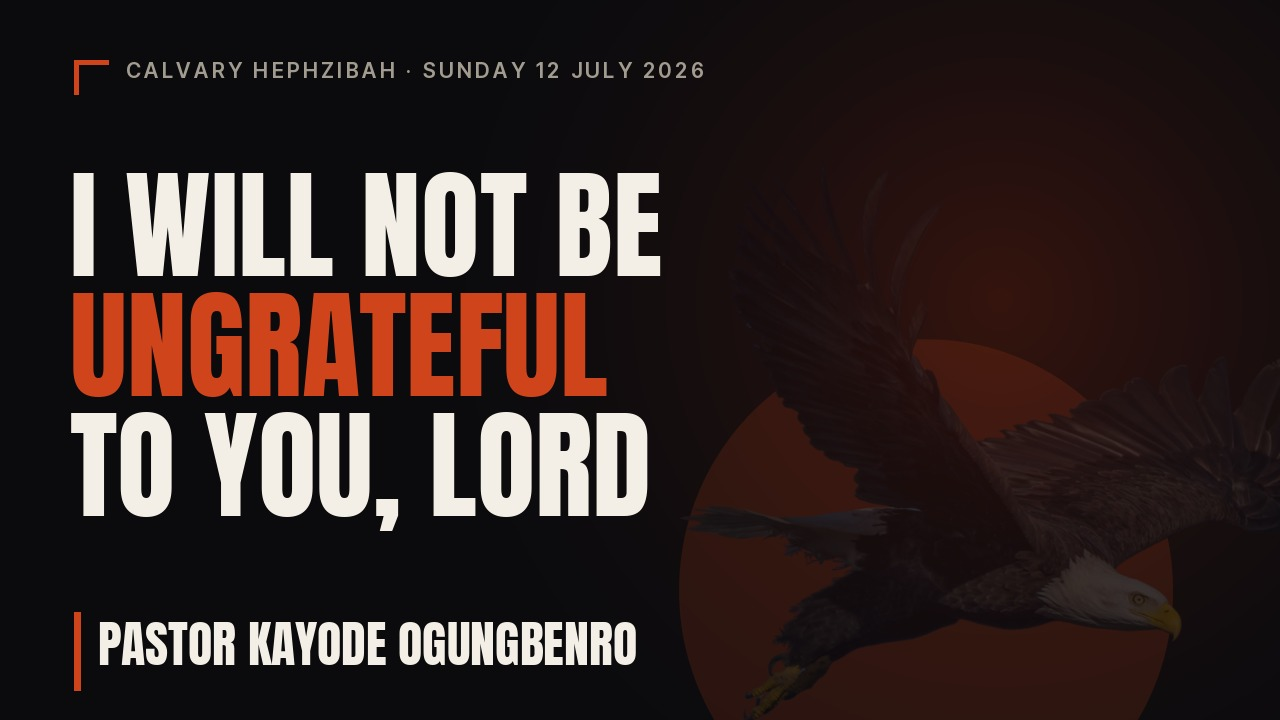
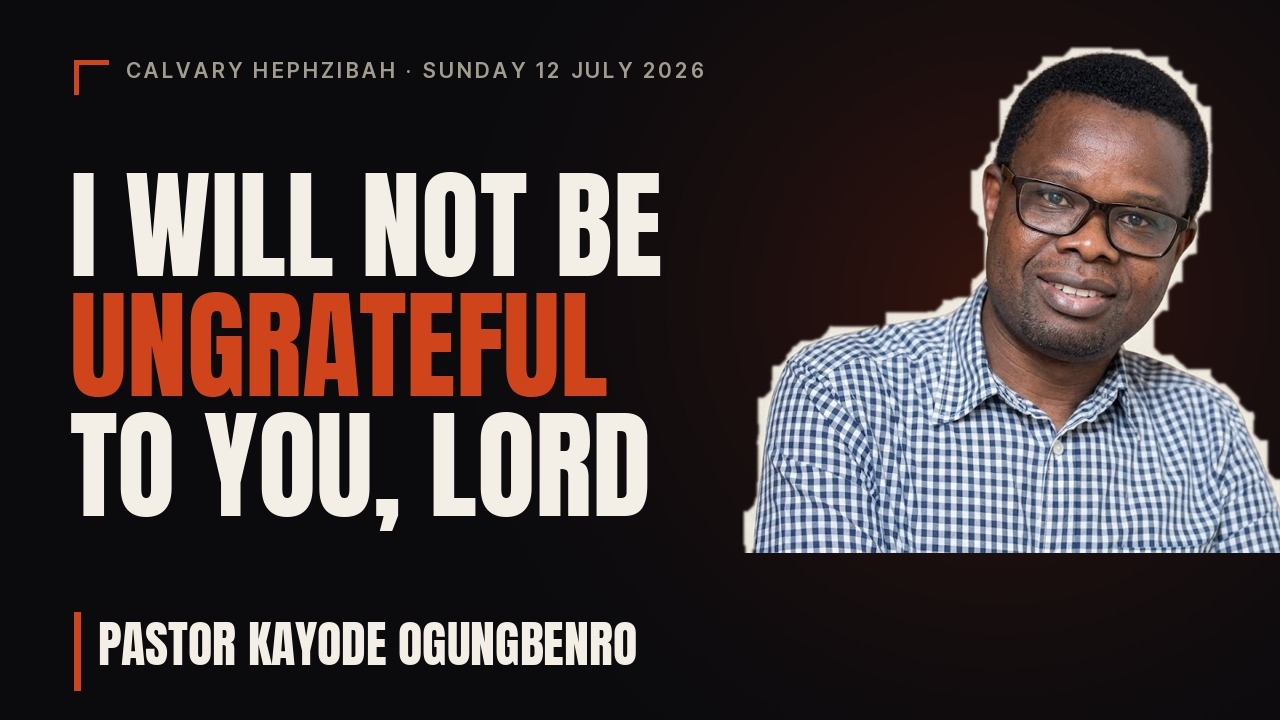
12 Jul 2026: Composite Pastor Kayode portrait into sermon thumbnail (v2)

Changed region(s): [[0.5312, 0.0611, 1.0, 1.0]]

diff --git a/media-briefing-12-jul-2026.html b/media-briefing-12-jul-2026.html
@@ -6,11 +6,11 @@
     <title>Calvary Service Run Sheet – 12th July 2026</title>
     <meta property="og:title" content="Calvary Service Run Sheet – 12th July 2026">
     <meta property="og:description" content="Sunday 12th July 2026 | I Will Not Be Ungrateful To You LORD | Pastor Kayode Ogungbenro | Calvary Hephzibah">
-    <meta property="og:image" content="https://calvaryhfgc.github.io/calvaryhephzibah/sermon-thumbnail-12-jul-2026.jpg?v=1">
+    <meta property="og:image" content="https://calvaryhfgc.github.io/calvaryhephzibah/sermon-thumbnail-12-jul-2026.jpg?v=2">
     <meta property="og:image:width" content="1280">
     <meta property="og:image:height" content="720">
     <meta name="twitter:card" content="summary_large_image">
-    <meta name="twitter:image" content="https://calvaryhfgc.github.io/calvaryhephzibah/sermon-thumbnail-12-jul-2026.jpg?v=1">
+    <meta name="twitter:image" content="https://calvaryhfgc.github.io/calvaryhephzibah/sermon-thumbnail-12-jul-2026.jpg?v=2">
     <link rel="preconnect" href="https://fonts.googleapis.com">
     <link rel="preconnect" href="https://fonts.gstatic.com" crossorigin>
     <link href="https://fonts.googleapis.com/css2?family=Cormorant+Garamond:wght@600;700&family=DM+Sans:wght@400;500;600;700&display=swap" rel="stylesheet">
@@ -246,7 +246,7 @@
             <div class="serm-preacher">Pastor Kayode Ogungbenro</div>
             <h3 class="serm-title">I Will Not Be Ungrateful To You LORD</h3>
             <div style="font-size:13px;color:rgba(255,255,255,0.6);margin-bottom:14px;">Scripture TBC</div>
-            <img src="https://calvaryhfgc.github.io/calvaryhephzibah/sermon-thumbnail-12-jul-2026.jpg?v=1" alt="Pastor Kayode Ogungbenro — I Will Not Be Ungrateful To You LORD" class="serm-thumb">
+            <img src="https://calvaryhfgc.github.io/calvaryhephzibah/sermon-thumbnail-12-jul-2026.jpg?v=2" alt="Pastor Kayode Ogungbenro — I Will Not Be Ungrateful To You LORD" class="serm-thumb">
             <div class="serm-note"><span>💡</span><span>Display sermon thumbnail for 30 seconds as Pastor Kayode comes up to preach.</span></div>
         </div>
     </div>
